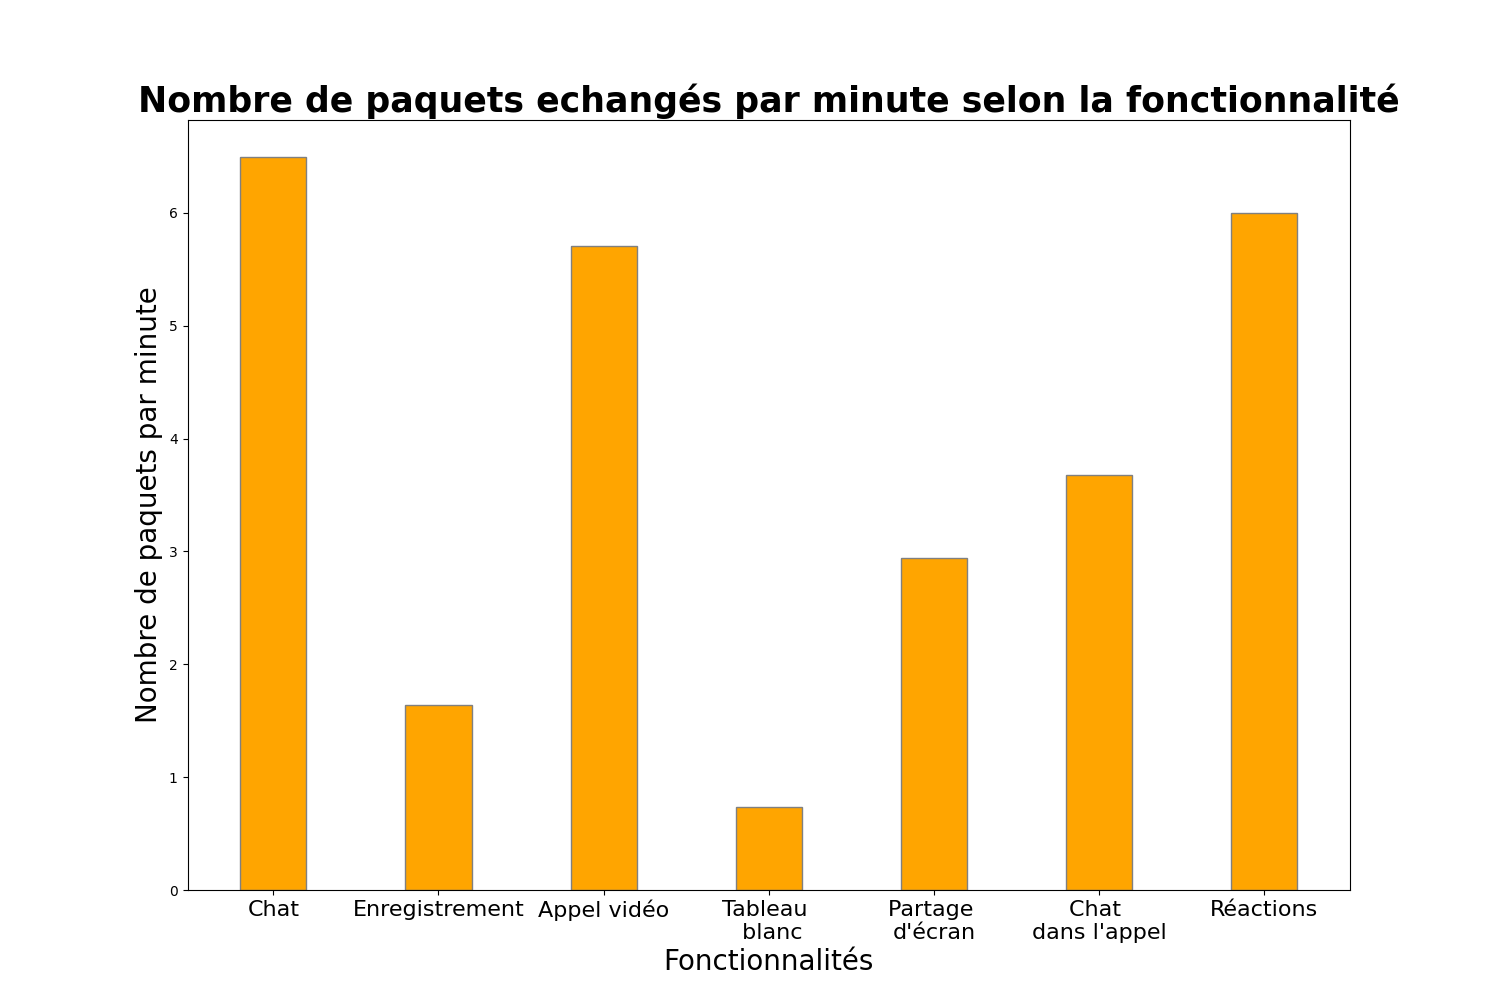
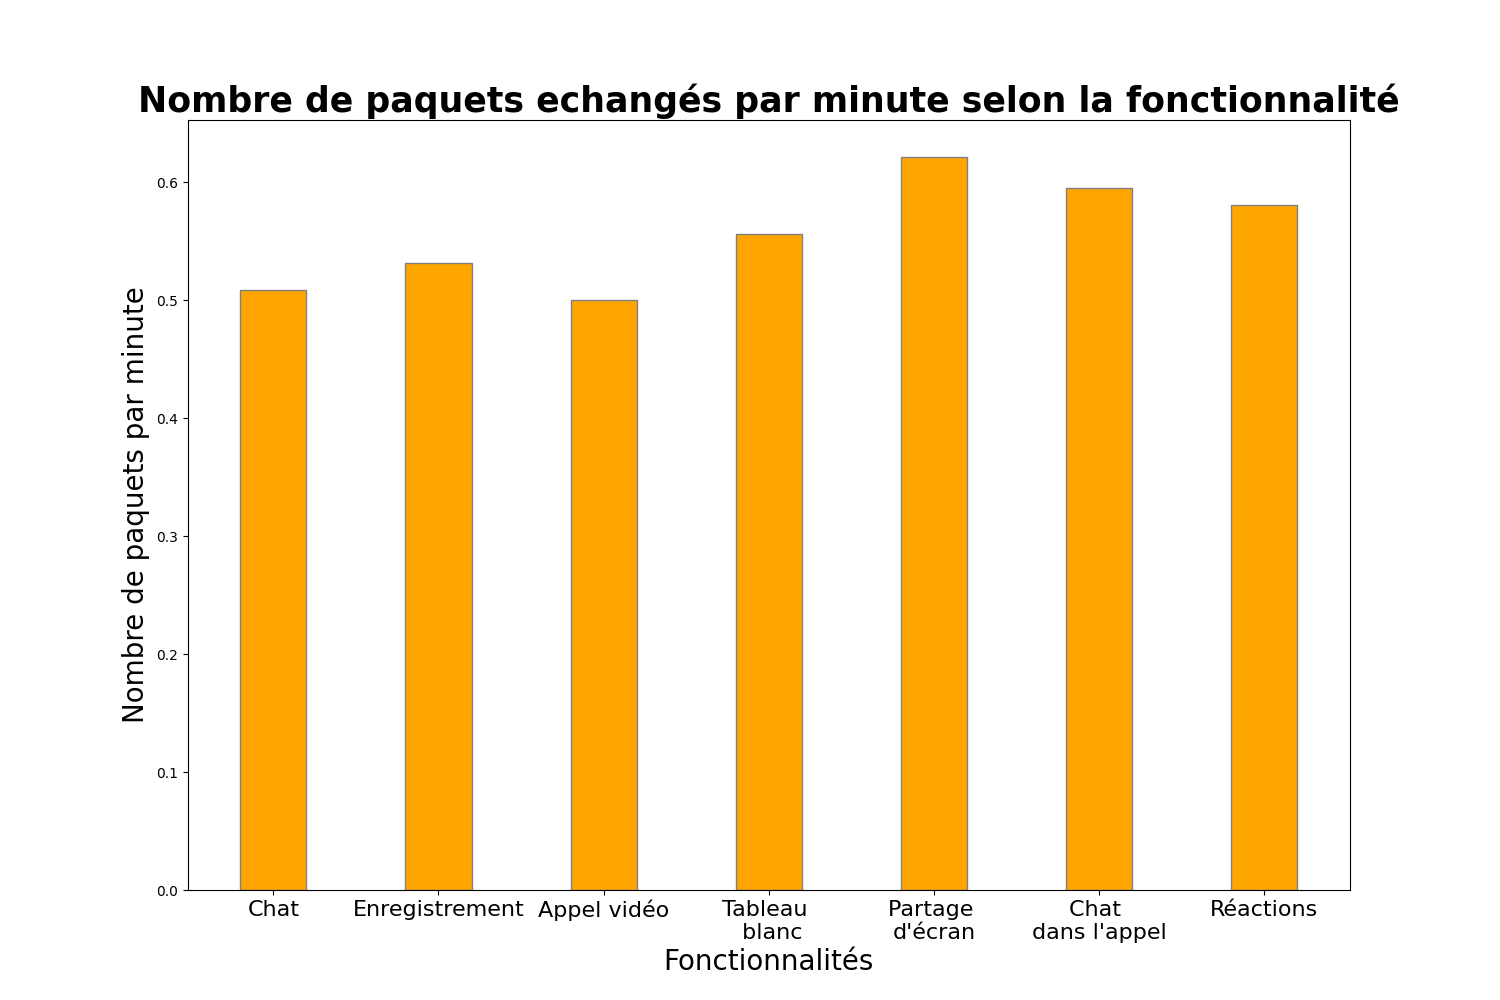
olb

diff --git a/packet.py b/packet.py
@@ -62,7 +62,7 @@ def get_infos(file_capture):
             d['Ip versions'].append(pckt['IP'].version)
         
         tot_packets += 1
-        tot_duration += float(pckt.frame_info.time_relative)
+        tot_duration += float(pckt.captured_length)
         tot_length += float(pckt.length)
     
     d['tot'] = tot_packets
